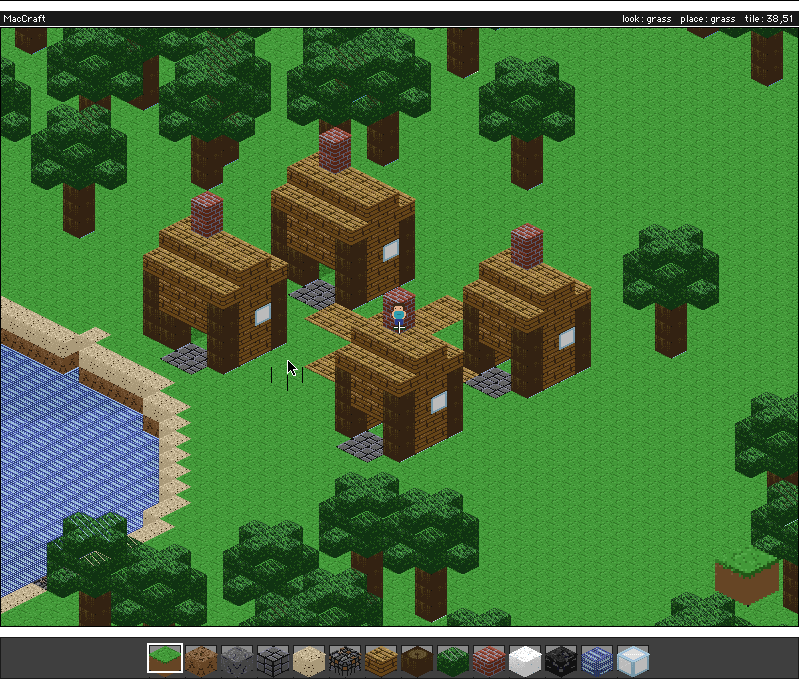
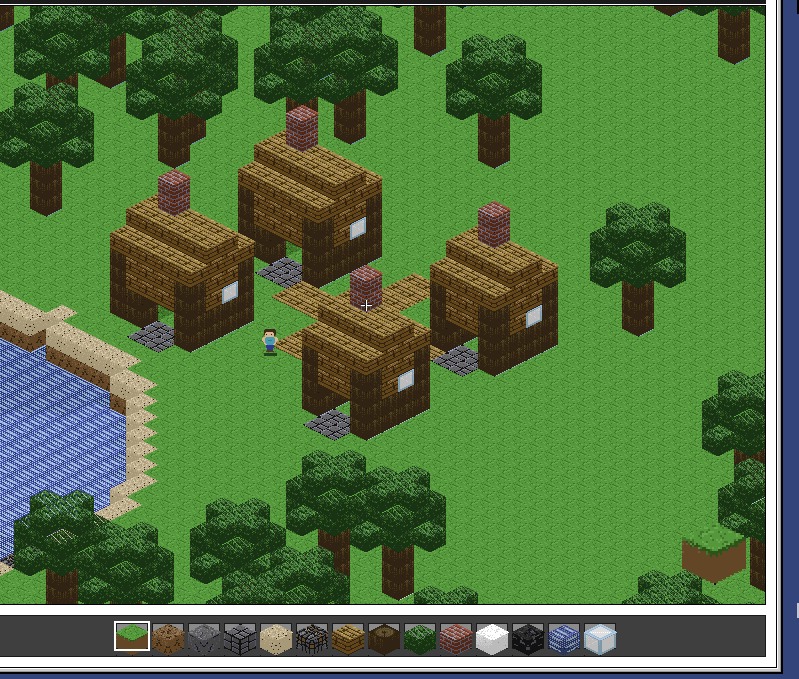
fix: the player is occluded by the world, and he does not leave a ghost
The figure was drawn after the world pass, so it painted over every block: over
a wall when standing inside a house, over the leaves when standing under a tree.
It is now handed to the world traversal, which draws it once the columns up to
its own diagonal are painted -- painter order, so walls in front and leaves
above cover him, and the doorway still shows him.

A pan scrolls the frame, which scrolled the figure's pixels with it; nothing
repainted them, so a camera jump dragged a copy of the player across the view
and left it there. The pan path now damages that rectangle shifted by the same
delta, and the figure's new position.

Doorways were walkable but invisible: the interior behind the door was planks at
the same shade as the outside, and at Minecraft's 0.60 side factor a wall and a
shadowed inside landed on the same palette step. Hut interiors are timber-lined
now and the sides are 0.85/0.72, which keeps the three faces distinct and leaves
the dark end of the ramp for interiors.

Harness: a `block x y z` verb, so a check can read a world cell instead of
guessing from pixels.

diff --git a/src/ui/game_window.c b/src/ui/game_window.c
@@ -134,6 +134,7 @@ static void FlushDirty(void);
 static void GameWindow_Update(void);
 static void GameWindow_Render(void);
 static void SpawnPlayerOnClearGround(void);
+static void DrawPlayerOverlay(void *context);
 
 static long AbsLong(long v)
 {
@@ -1102,6 +1103,25 @@ static void GameWindow_HandleActivate(Boolean becomingActive)
 
 /* Render the game window contents. Only called between BeginUpdate/EndUpdate. */
 
+/* Where the figure landed in the frame last paint. A camera pan scrolls the
+ * whole frame, so the figure's pixels scroll with it and nothing else repaints
+ * them: the old body stays on screen as a ghost, offset by the pan. The pan
+ * path damages this rectangle shifted by the same delta. */
+static Rect sFigureRect;
+static Boolean sFigureValid = false;
+
+/* The player figure, drawn from inside the world traversal (see
+ * WorldView_DrawWithOverlay) so that blocks in front of him cover him. */
+static void DrawPlayerOverlay(void *context)
+{
+    (void)context;
+    PlayerFigureRect(&sFigureRect);
+    sFigureValid = true;
+    Avatar_Draw((short)(sPlayer.x >> 16), (short)(sPlayer.y >> 16),
+                (short)(sPlayer.z >> 16), sCamX, sCamY, &sDisplayRect,
+                sWalkPhase, (Boolean)!sPlayer.onGround);
+}
+
 static void GameWindow_Render(void)
 {
     Rect strip;
@@ -1242,6 +1262,25 @@ static void GameWindow_Render(void)
                 }
                 sRenderRect = exposed;
             }
+
+            /* The figure scrolled with the frame: repaint where its pixels went,
+             * and where it has to be drawn now. Without this a pan drags a copy
+             * of the player across the view and leaves it there. */
+            if (sFigureValid) {
+                Rect ghost = sFigureRect;
+                Rect now;
+
+                OffsetRect(&ghost, dx, dy);
+                UnionRect(&sRenderRect, &ghost, &sRenderRect);
+                PlayerFigureRect(&now);
+                UnionRect(&sRenderRect, &now, &sRenderRect);
+                if (!SectRect(&sRenderRect, &sDisplayRect, &ghost)) {
+                    SetRect(&sRenderRect, 0, 0, 0, 0);
+                }
+                else {
+                    sRenderRect = ghost;
+                }
+            }
         }
     }
 
@@ -1312,7 +1351,14 @@ static void GameWindow_Render(void)
             view.camX = sCamX;
             view.camY = sCamY;
             view.hasColor = sHasColor;
-            WorldView_Draw(&view, &sRenderRect);
+            /* The player is part of the world, not an overlay on top of it:
+             * handing the figure to the traversal puts it at its own diagonal
+             * in painter order, so the wall in front of a doorway and the
+             * leaves over a head cover it. */
+            WorldView_DrawWithOverlay(&view, &sRenderRect,
+                                      (short)(sPlayer.x >> 16),
+                                      (short)(sPlayer.y >> 16),
+                                      DrawPlayerOverlay, NULL);
         }
         Sprite_SetView(&sDisplayRect);
 
@@ -1329,12 +1375,6 @@ static void GameWindow_Render(void)
             Rect overlay;
             Rect touched;
 
-            PlayerFigureRect(&overlay);
-            if (SectRect(&overlay, &sRenderRect, &touched)) {
-                Avatar_Draw((short)(sPlayer.x >> 16), (short)(sPlayer.y >> 16),
-                            (short)(sPlayer.z >> 16), sCamX, sCamY, &sDisplayRect,
-                            sWalkPhase, (Boolean)!sPlayer.onGround);
-            }
             CrosshairRect(&overlay);
             if (SectRect(&overlay, &sRenderRect, &touched)) {
                 HUD_DrawCrosshair();

diff --git a/src/ui/world_view.c b/src/ui/world_view.c
@@ -339,6 +339,13 @@ static void DrawBlock(const WorldView *v, short x, short y, short z, BlockID id,
 
 void WorldView_Draw(const WorldView *v, const Rect *clip)
 {
+    WorldView_DrawWithOverlay(v, clip, 0, 0, NULL, NULL);
+}
+
+void WorldView_DrawWithOverlay(const WorldView *v, const Rect *clip,
+                               short tileX, short tileY,
+                               WorldView_OverlayProc overlay, void *context)
+{
     short xMin, yMin, xMax, yMax, sum, x, y, sumMax, z, top;
     short sumMin, diffMin, diffMax;
     Rect box, hit;
@@ -364,7 +371,18 @@ void WorldView_Draw(const WorldView *v, const Rect *clip)
     WorldView_Stats[0] = 0;
     WorldView_Stats[1] = 0;
 
+    /* The overlay belongs after everything at or behind its own diagonal, so
+     * the first sum past it is where it goes. If the walk starts beyond the
+     * player (the view scrolled past him) it is still drawn, in front. */
+    short overlaySum = (short)(tileX + tileY);
+    Boolean overlayDone = (Boolean)(overlay == NULL);
+
     for (sum = sumMin; sum <= sumMax; sum++) {
+        if (!overlayDone && sum > overlaySum) {
+            overlay(context);
+            overlayDone = true;
+        }
+
         /* x - y = 2x - sum, so the diagonal bounds give the on-screen slice of
          * this row; one tile of slack covers the rounding, and the per-column
          * screen test still culls what is left. */
@@ -430,5 +448,9 @@ void WorldView_Draw(const WorldView *v, const Rect *clip)
                 }
             }
         }
+    }
+
+    if (!overlayDone) {
+        overlay(context);
     }
 }

diff --git a/src/ui/remote.c b/src/ui/remote.c
@@ -394,6 +394,45 @@ void Remote_Apply(const char *cmd)
         out[q] = 0;
         Remote_SetResult(out);
     }
+    else if (strncmp(cmd, "block ", 6) == 0) {
+        /* block x y z: the raw world cell, for harness assertions. */
+        const char *arg = cmd + 6;
+        short vals[3];
+        short n = 0;
+        short sign = 1;
+        long acc = 0;
+        Boolean any = false;
+        char out[24];
+        short q = 0;
+        long v;
+
+        vals[0] = 0; vals[1] = 0; vals[2] = 0;
+        while (*arg && n < 3) {
+            if (*arg == ' ') {
+                if (any) { vals[n++] = (short)(acc * sign); acc = 0; sign = 1; any = false; }
+                arg++;
+                continue;
+            }
+            if (*arg == '-') { sign = -1; arg++; continue; }
+            if (*arg >= '0' && *arg <= '9') { acc = acc * 10 + (*arg - '0'); any = true; }
+            arg++;
+        }
+        if (any && n < 3) { vals[n++] = (short)(acc * sign); }
+        if (n < 3) {
+            Remote_SetResult("block needs x y z");
+        }
+        else {
+            short digits[8];
+            short k = 0;
+
+            v = (long)World_Get(vals[0], vals[1], vals[2]);
+            if (v == 0) digits[k++] = 0;
+            while (v > 0 && k < 7) { digits[k++] = (short)(v % 10); v /= 10; }
+            while (k > 0) out[q++] = (char)('0' + digits[--k]);
+            out[q] = 0;
+            Remote_SetResult(out);
+        }
+    }
     else if (strncmp(cmd, "level", 5) == 0) {
         char out[16];
         short q = 0;

diff --git a/src/game/scene.c b/src/game/scene.c
@@ -362,6 +362,26 @@ static void BuildHutAt(short x0, short y0, short w, short h, short floorZ)
         World_Set((short)(midX + 1), (short)(y1 + 1), floorZ, kBlockCobblestone);
     }
 
+    /* Timber lining on the inner face of the walls, at door height. Without
+     * it the doorway is a hole you can see nothing in: the interior wall
+     * behind it is planks at the same shade as the outside, so the opening
+     * reads as a solid wall. Logs are two ramp steps darker and the doorway
+     * reads as a doorway. */
+    {
+        short inner;
+
+        for (inner = (short)(x0 + 1); inner < x1; inner++) {
+            World_Set(inner, y0, (short)(floorZ + 1), kBlockLog);
+            World_Set(inner, y0, (short)(floorZ + 2), kBlockLog);
+        }
+        for (inner = (short)(y0 + 1); inner < y1; inner++) {
+            World_Set(x0, inner, (short)(floorZ + 1), kBlockLog);
+            World_Set(x0, inner, (short)(floorZ + 2), kBlockLog);
+            World_Set(x1, inner, (short)(floorZ + 1), kBlockLog);
+            World_Set(x1, inner, (short)(floorZ + 2), kBlockLog);
+        }
+    }
+
     /* Windows on both flanks, at eye height. */
     World_Set(x1, midY, (short)(floorZ + 3), kBlockGlass);
     World_Set(x0, midY, (short)(floorZ + 3), kBlockGlass);

diff --git a/src/game/light.c b/src/game/light.c
@@ -14,11 +14,16 @@
    pointing down-left on screen) is lit next; the right face (normal +x,
    pointing down-right) turns away from the sun and is darkest. */
 /* Minecraft's fixed directional shade, which is what makes its blocks read as
- * blocks: the top face gets full light, the two sides get 80% and 60%. The
- * left side is the brighter one because the sun sits up and to the left. */
+ * blocks: the top face gets full light and the two sides are darker. The left
+ * side is the brighter one because the sun sits up and to the left.
+ *
+ * 0.80/0.60 was Minecraft's own ratio and too strong here: at 0.60 a plank wall
+ * and the shadowed inside of a house landed on the same palette step, so a
+ * doorway read as a solid wall. 0.85/0.72 keeps the three faces distinct and
+ * leaves the dark end of the ramp for interiors. */
 #define kSunTop   256 /* 1.00 */
-#define kSunLeft  205 /* 0.80 */
-#define kSunRight 154 /* 0.60 */
+#define kSunLeft  218 /* 0.85 */
+#define kSunRight 184 /* 0.72 */
 
 /* Occlusion is quantised to four levels so faces in the same shadow band
    share a colour; beyond three occluders the face is as dark as it gets. */

diff --git a/src/ui/world_view.h b/src/ui/world_view.h
@@ -22,6 +22,16 @@ typedef struct {
  * front. The caller owns the screen lock and the sprite view. */
 extern long WorldView_Stats[2];   /* columns walked, blocks drawn */
 
+/* Drawn *inside* the traversal, once the columns up to its own diagonal have
+ * been painted: that is what puts a player in a doorway behind the wall in
+ * front of him and under a canopy under the leaves, instead of over every
+ * block on screen. `tileX`/`tileY` are the tile the figure stands on. */
+typedef void (*WorldView_OverlayProc)(void *context);
+
+void WorldView_DrawWithOverlay(const WorldView *v, const Rect *clip,
+                               short tileX, short tileY,
+                               WorldView_OverlayProc overlay, void *context);
+
 void WorldView_Draw(const WorldView *v, const Rect *clip);
 
 #endif

diff --git a/src/game/save.c b/src/game/save.c
@@ -27,7 +27,7 @@
  * older build holds a world that no longer matches the generator (one-block
  * trunks, huts without doorways), and resuming it made every fixed bug look
  * unfixed on the guest. */
-#define kSaveVersion 4
+#define kSaveVersion 5
 
 static const unsigned char kSaveName[] = "\pMacCraft World";
 
